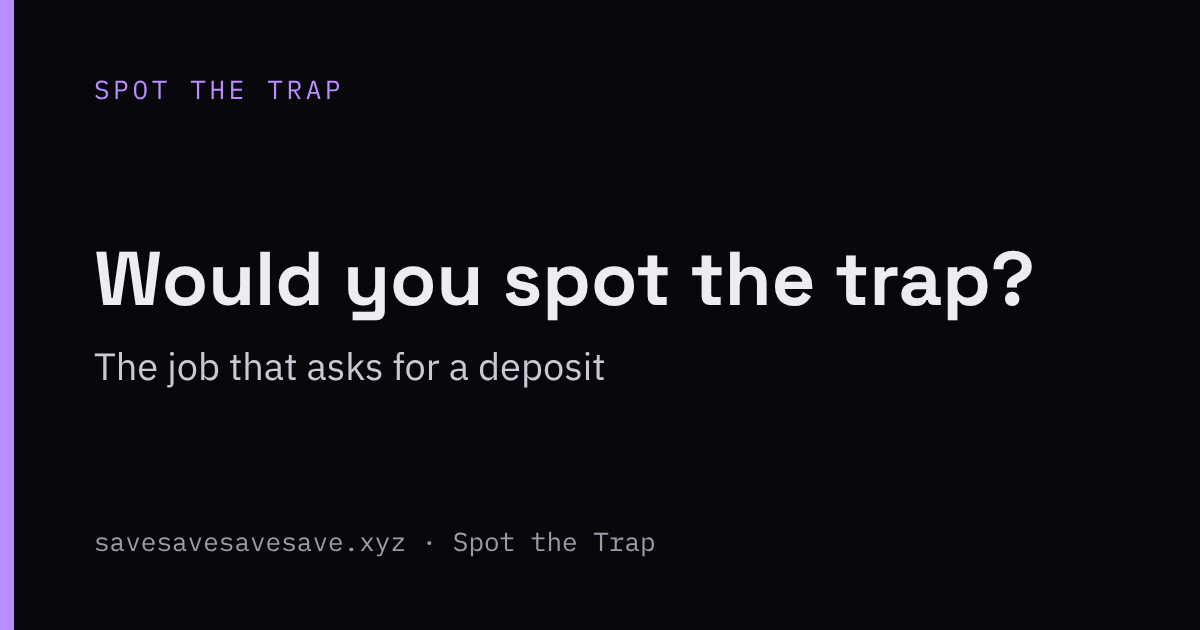
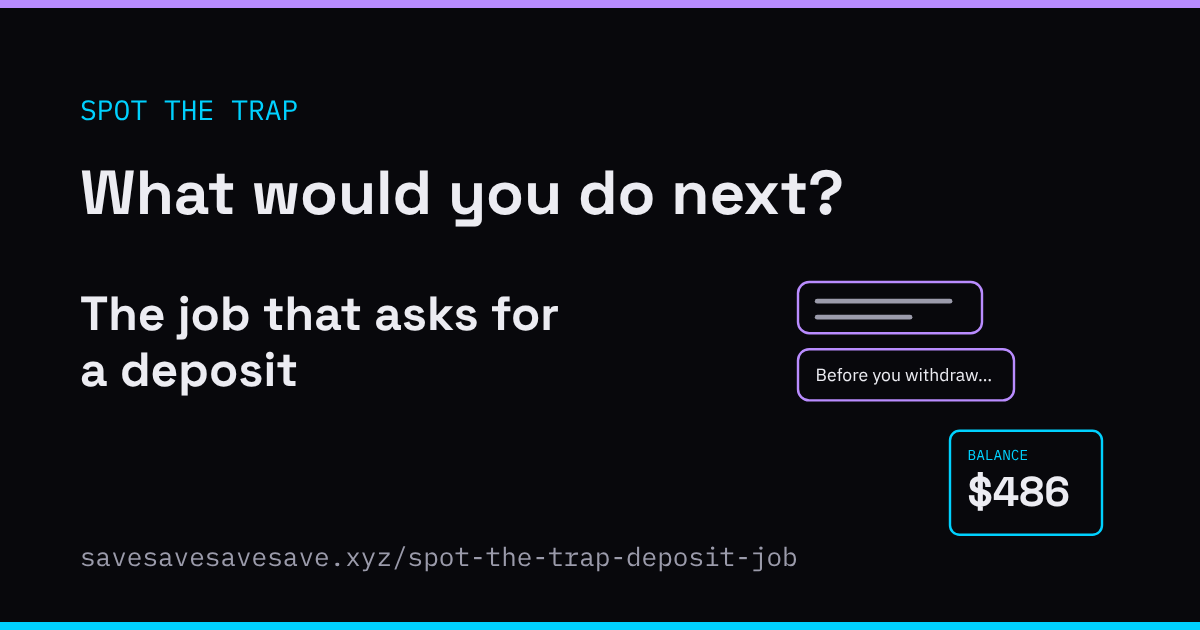
Spot the Trap: publish approved share-card designs
Stefan approved the share-card concepts on 21 October 2026.
trap-cards-design.py --live now writes the published scenario cards.

Claude-Session: https://claude.ai/code/session_013DTXsHHSpZCGCiuNQZgPYL

diff --git a/trap-cards-design.py b/trap-cards-design.py
@@ -10,7 +10,8 @@ Rules held: question and title only; no answer letters, ticks, crosses,
 scores or "you solved it"; no real brand, logo, account number, payment
 address or runnable command. Run:  python3 trap-cards-design.py
 """
-import html, json, pathlib, subprocess
+import html, json, pathlib, subprocess, sys
+LIVE = '--live' in sys.argv  # approved 21 Oct 2026: write the published scenario cards
 from playwright.sync_api import sync_playwright
 
 root = pathlib.Path(__file__).resolve().parent
@@ -95,6 +96,7 @@ with sync_playwright() as p:
         tmp.write_text(card(cid, title), encoding='utf-8')
         pg.goto(tmp.as_uri()); pg.wait_for_timeout(300)
         pg.screenshot(path=str(out / f'{cid}-concept.png')); print('wrote', cid)
+        if LIVE: pg.screenshot(path=str(root / f'spot-the-trap-{cid}.png')); print('published card', cid)
     # Phone preview: each card at 340 px wide, as a feed would show it.
     imgs = ''.join(f'<figure><img src="{(out / (cid + "-concept.png")).as_uri()}"><figcaption>{html.escape(t_)}</figcaption></figure>' for cid, t_ in data.items())
     tmp.write_text(f"""<!doctype html><html><head><meta charset="utf-8"><style>
